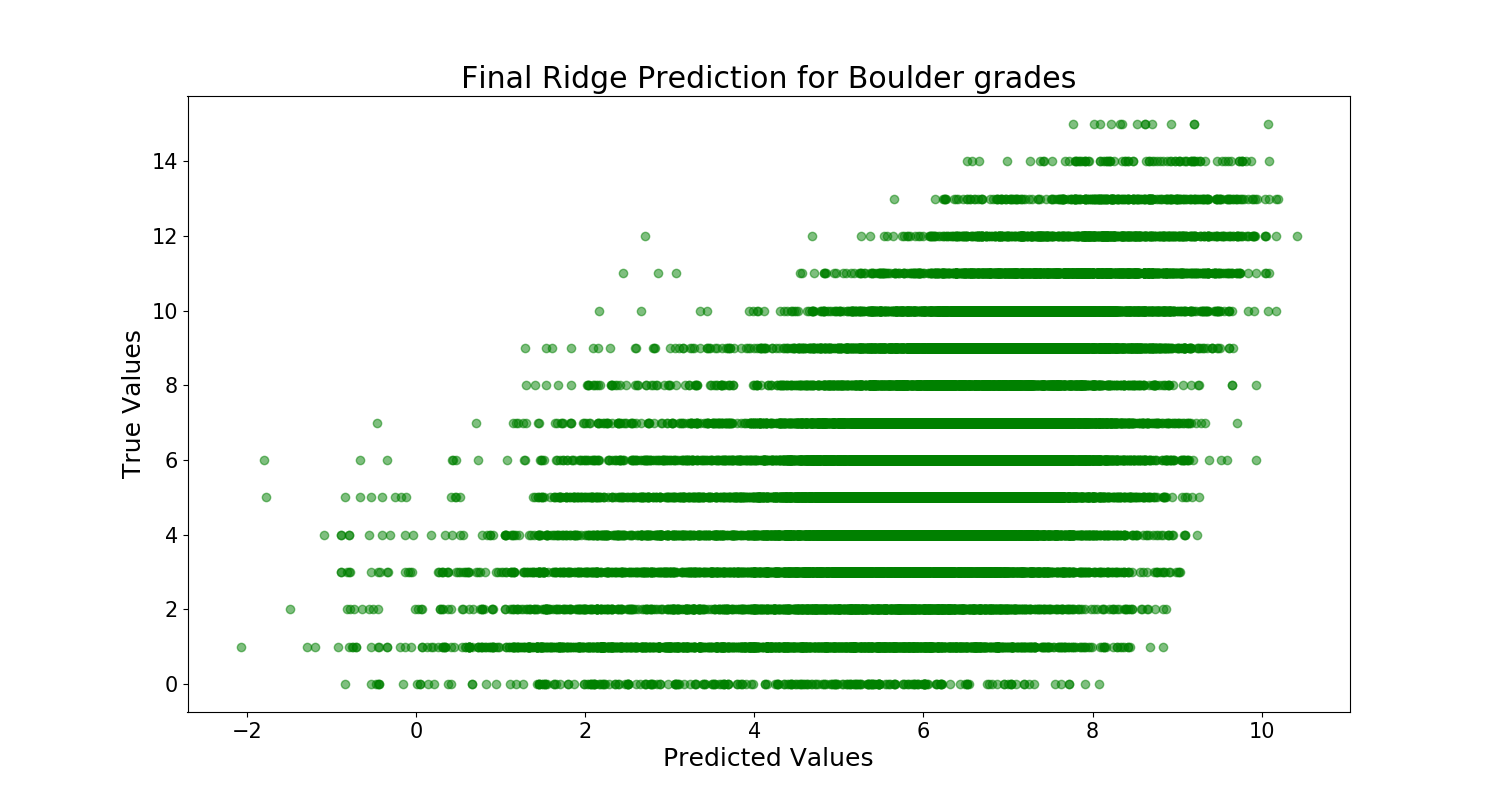
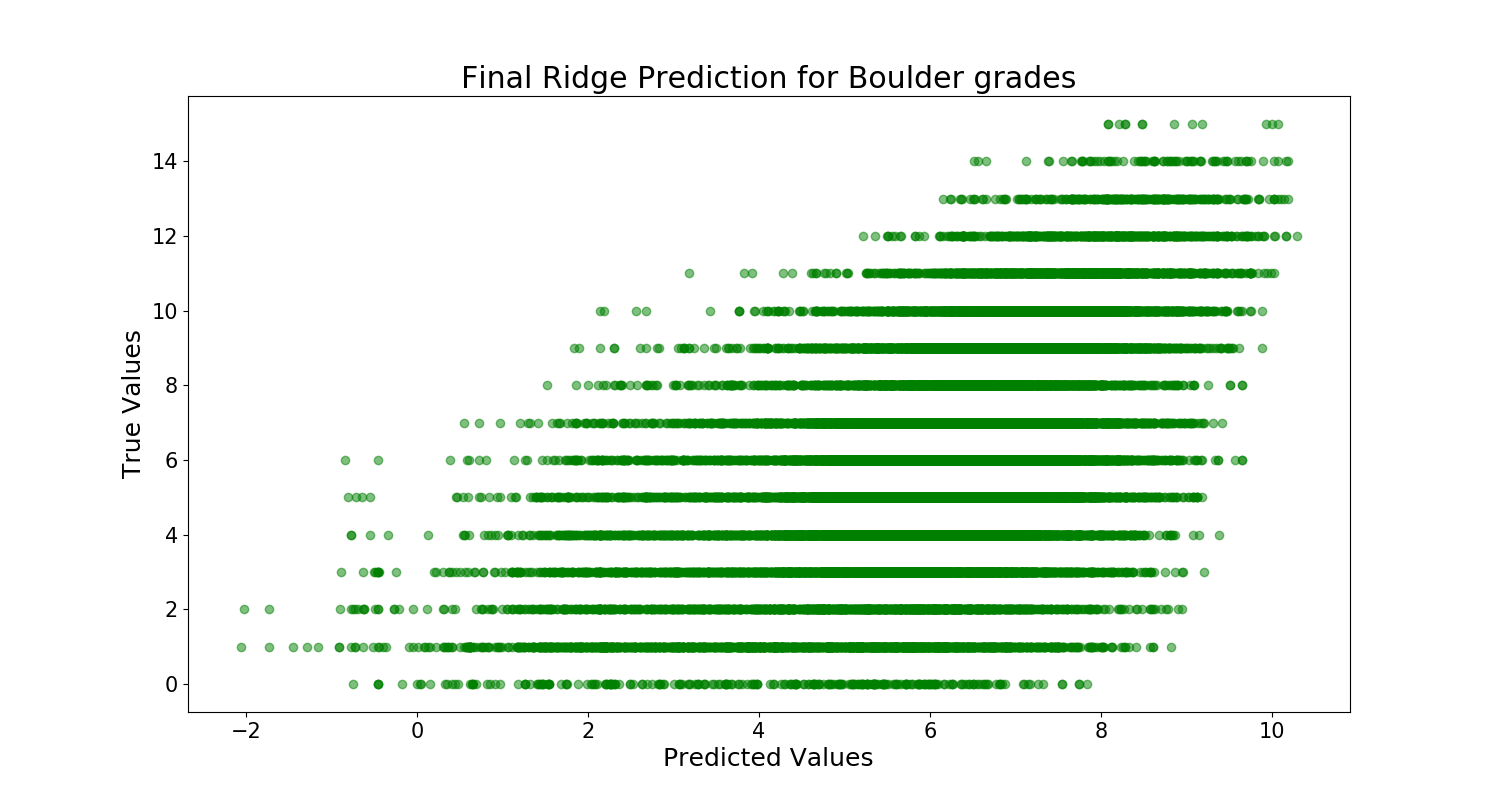
Add function to restrict grades

diff --git a/src/model.py b/src/model.py
@@ -168,7 +168,7 @@ def main_route():
     test_model_on_hold(X_train,y_train,X_hold,y_hold,Ridge,route_ridge.alpha_,'Final Ridge Prediction for Route grades','images/ridge_model_route_final.png')
     test_model_on_hold(X_train,y_train,X_hold,y_hold,Lasso,route_lasso.alpha_,'Final Lasso Prediction for Route grades','images/lasso_model_route_final.png')
     route_coefs = get_coefs(route_lasso,route.drop('usa_routes',axis=1))
-    print(route_coefs.sort_values(0)) 
+    print(route_coefs.sort_values(0))
 
 def plot_predictions_and_mse():
     plot_mse(route_ridge, X_train, y_train, ridge_X_test, ridge_y_true,"Ridge Regression Train and Test MSE" , 'images/route_ridge_MSE.png')
@@ -179,3 +179,16 @@ def plot_predictions_and_mse():
     plot_model_predictions(lasso_y_true,lasso_y_hats,'Lasso Prediction for Boulder Grades','images/lasso_model_boulder.png')
     plot_mse(boulder_ridge, X_train, y_train, ridge_X_test, ridge_y_true,"Ridge Regression Train and Test MSE" , 'images/boulder_ridge_MSE.png')
     plot_mse(boulder_lasso, X_train, y_train, lasso_X_test, lasso_y_true,"Lasso Regression Train and Test MSE" , 'images/boulder_lasso_MSE.png')
+
+def restrict_grades():
+    boulders = pd.read_csv('/Users/Kelly/galvanize/capstones/mod1/data/boulders.csv')
+
+    boulders_restrict = boulders.copy()
+    boulders_restrict = boulders.loc[boulders['usa_boulders'] >= 5]
+    boulder_restrict = drop_columns_grades(boulders_restrict)
+    X_train, y_train, X_hold, y_hold = split_data_grades(boulder_restrict,'usa_boulders')
+    boulder_ridge, boulder_lasso = get_boulder_models(X_train, y_train)
+    test_model_on_hold(X_train,y_train,X_hold,y_hold,Ridge,boulder_ridge.alpha_,'Final Ridge Prediction for Boulder grades','images/ridge_model_boulder_restrict.png')
+    test_model_on_hold(X_train,y_train,X_hold,y_hold,Lasso,boulder_lasso.alpha_,'Final Lasso Prediction for Boulder grades','images/lasso_model_boulder_restrict.png')
+    boulder_coefs = get_coefs(boulder_lasso,boulders_restrict.drop('usa_boulders',axis=1))
+    print(boulder_coefs.sort_values(0))
